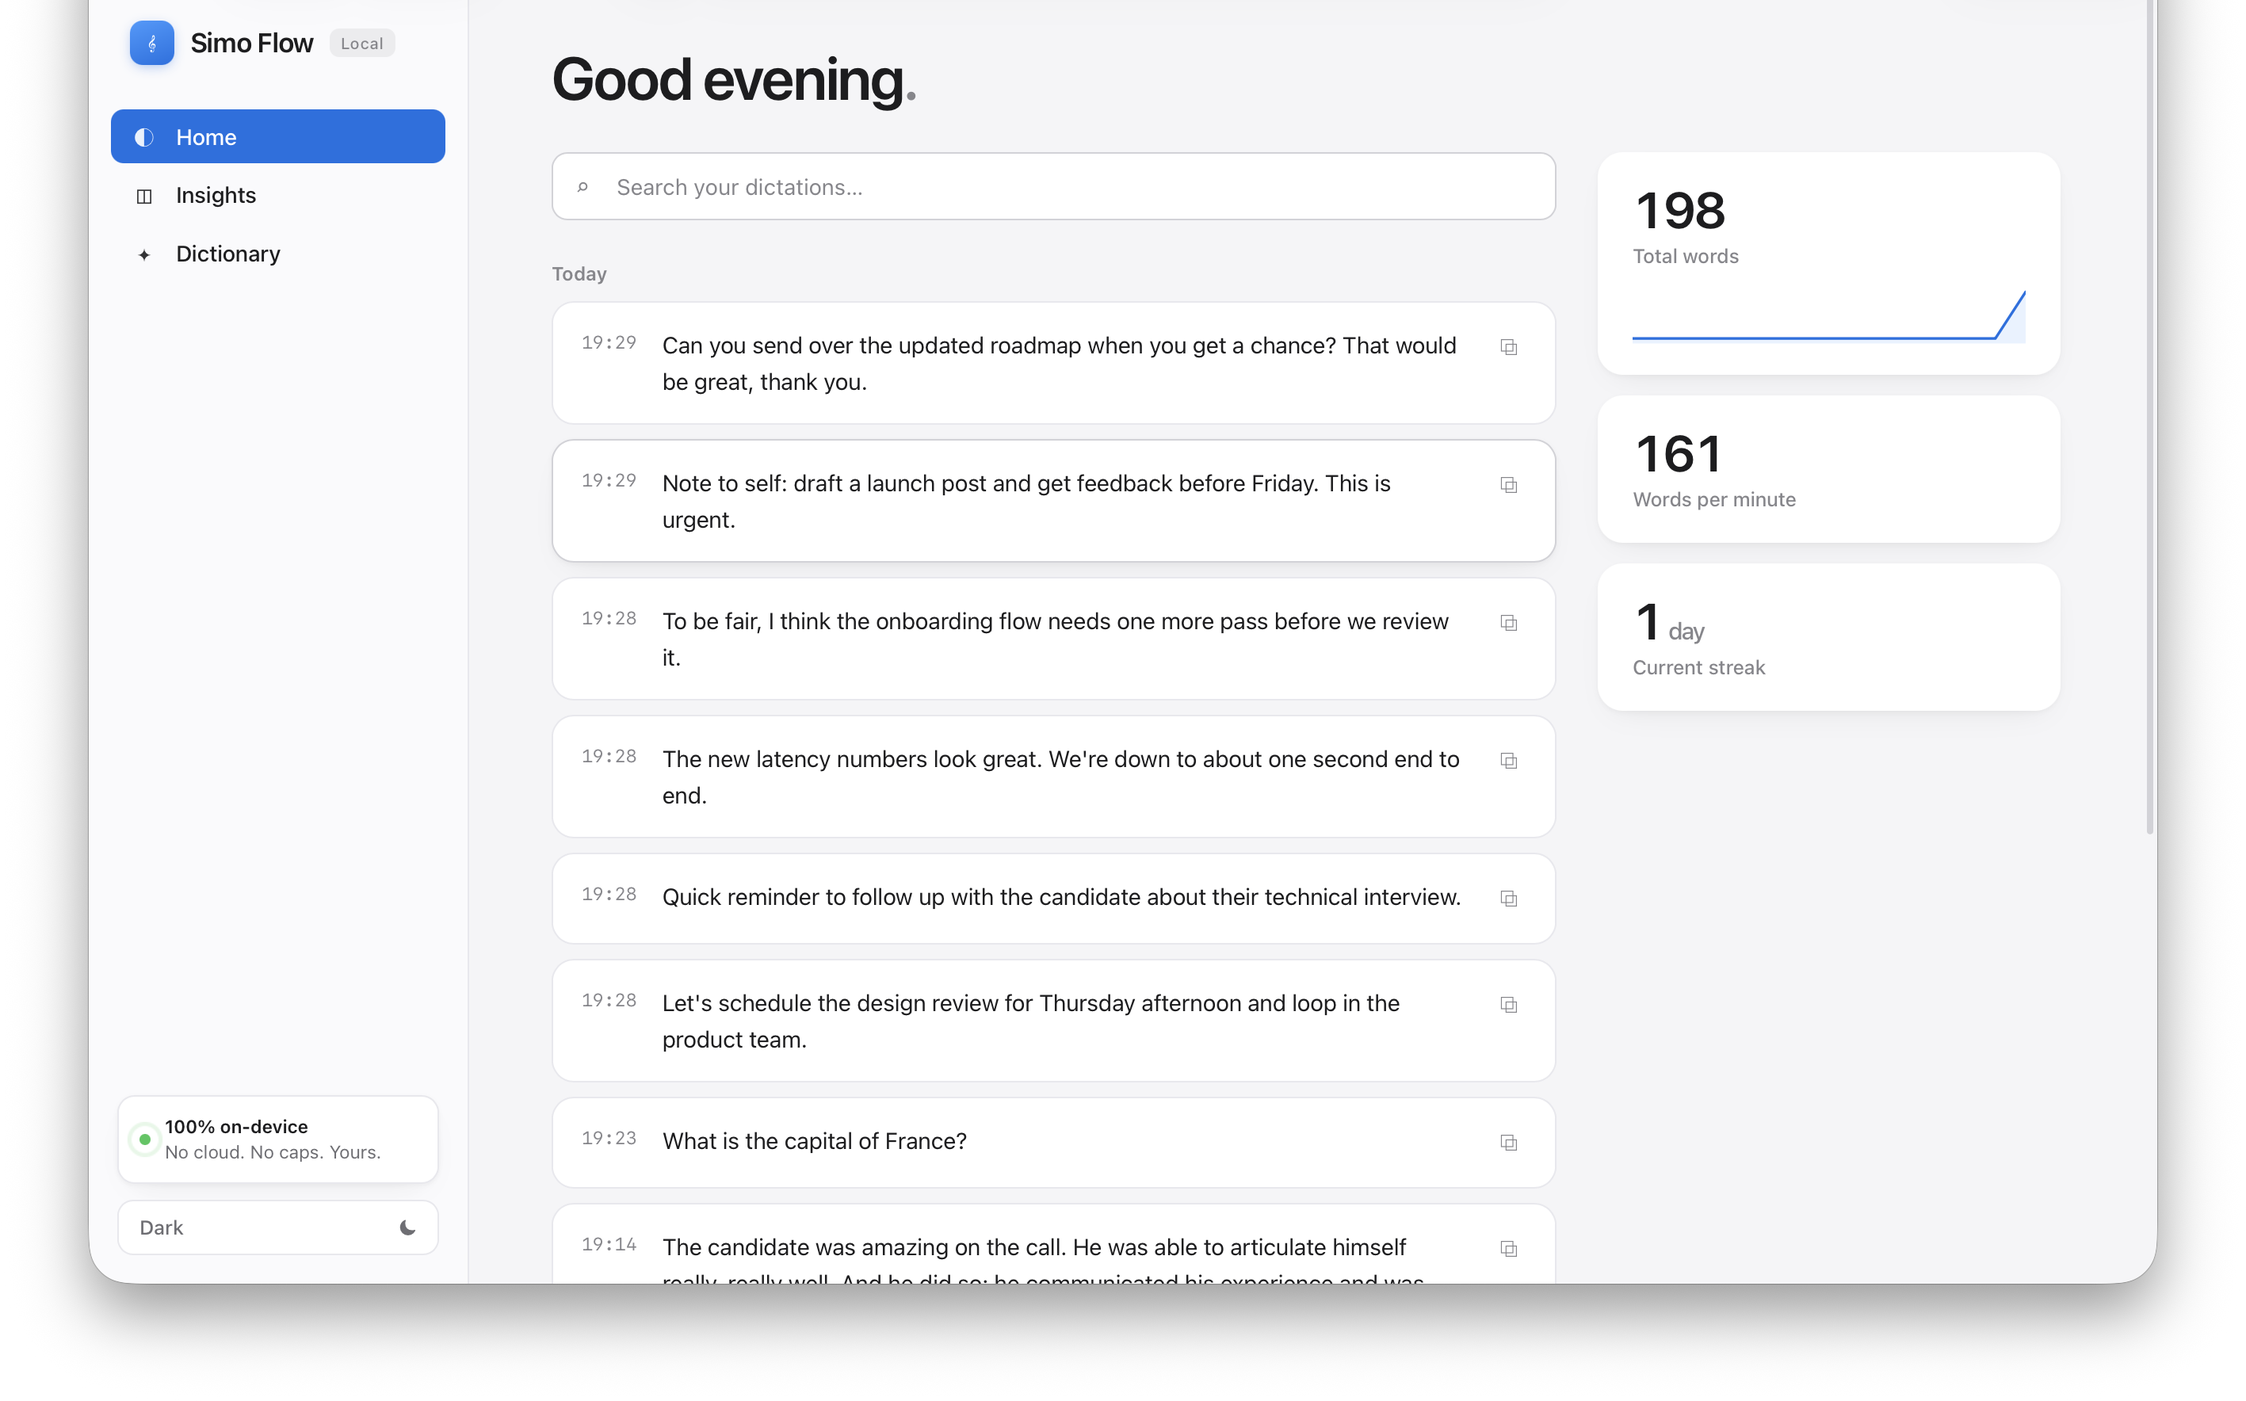
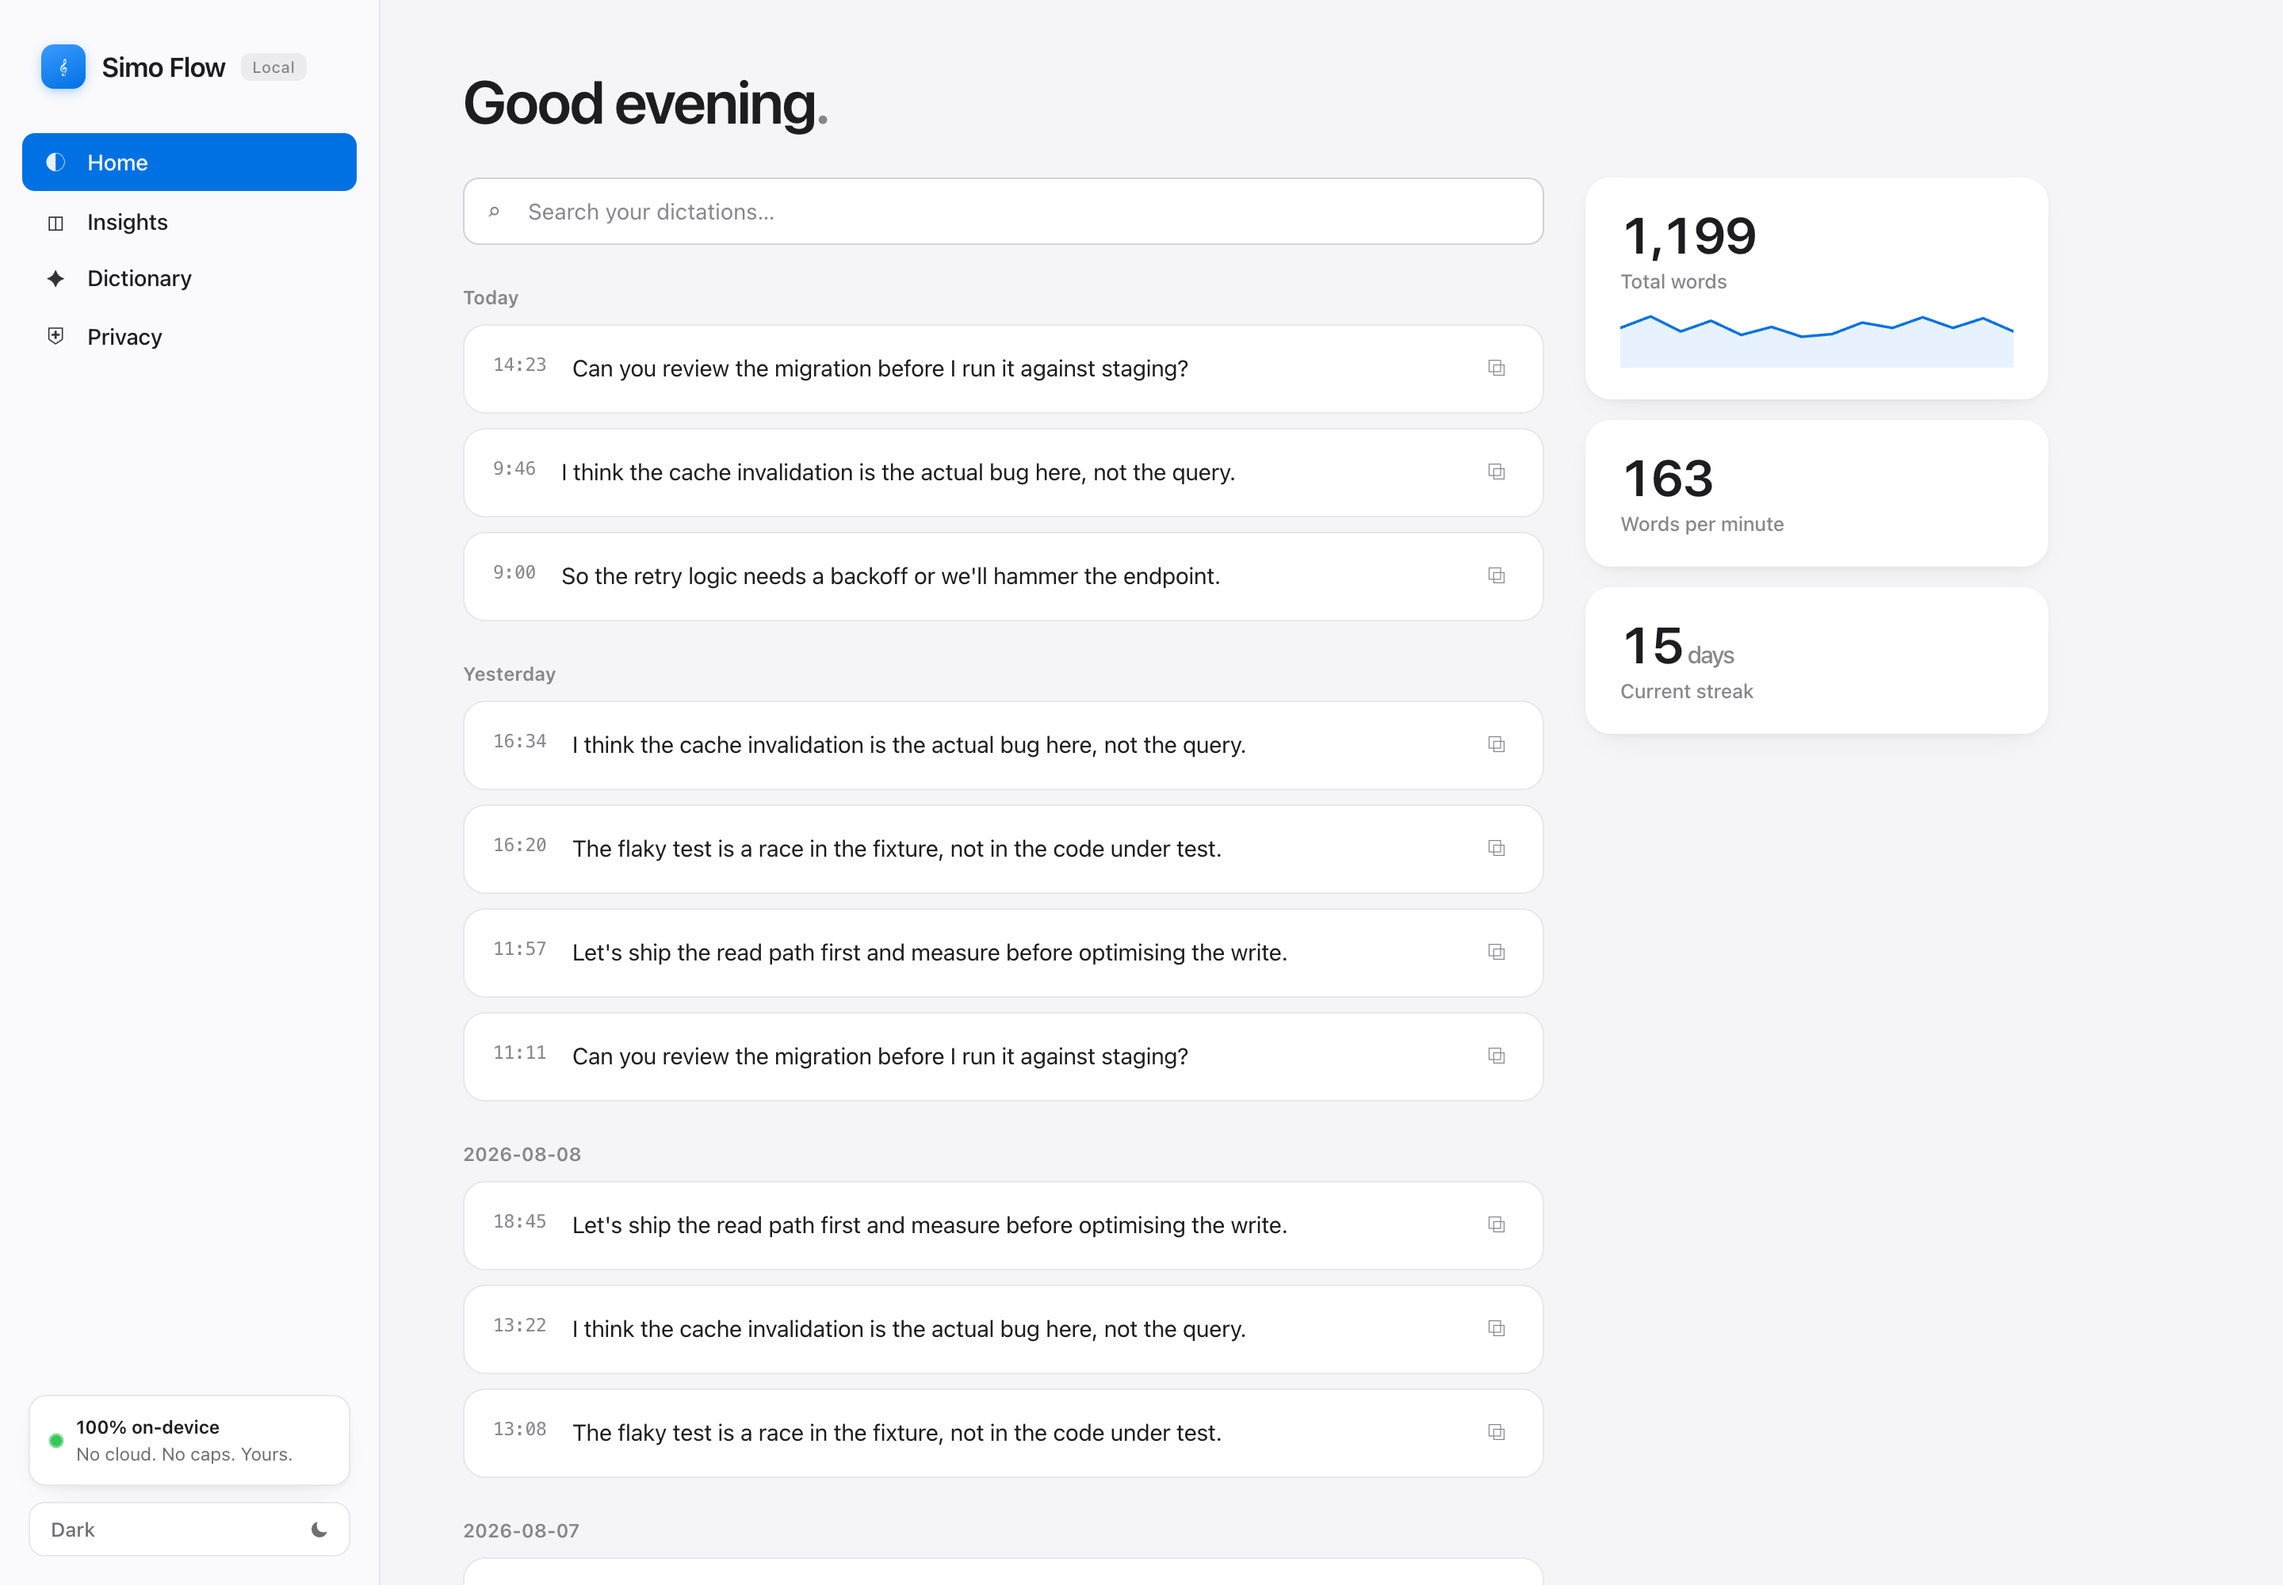
docs: regenerate dashboard screenshots from placeholder data
The screenshots showed a product that no longer exists — no Privacy page, old
pill — but regenerating them naively meant publishing real dictated speech to a
public repo. tools/screenshot_docs.py seeds a throwaway database with invented
engineering chatter, serves the dashboard against that, and screenshots it
headlessly. The real ~/.simo-flow.db is never opened.

Adds the Privacy page shot, since export and delete are the most important thing
in this release and were invisible in the README.

Seeded timestamps are varied across the day: every row sharing one timestamp reads
as fake the moment anyone looks at the feed.

diff --git a/tools/screenshot_docs.py b/tools/screenshot_docs.py
@@ -1,0 +1,181 @@
+#!/usr/bin/env python3
+"""Regenerate the README dashboard screenshots — from placeholder data, never yours.
+
+The screenshots in `docs/` had gone stale (no Privacy page, old pill), but
+regenerating them naively meant publishing real dictated speech to a public repo.
+So this seeds a throwaway database with invented content, serves the dashboard
+against *that*, screenshots it, and never opens `~/.simo-flow.db` at all.
+
+Dark mode is captured by pre-setting `data-theme` on a temp copy of the dashboard.
+The page's own theme code only overrides that when the user has saved a preference,
+so the attribute survives — no change to the shipped dashboard for a tool's benefit.
+
+Usage:
+    ./.venv/bin/python tools/screenshot_docs.py
+    ./.venv/bin/python tools/screenshot_docs.py --out /tmp/preview   # review first
+"""
+import argparse
+import socket
+import subprocess
+import sys
+import tempfile
+import threading
+import time
+from datetime import datetime, timedelta
+from pathlib import Path
+
+sys.path.insert(0, str(Path(__file__).resolve().parent.parent))
+
+ROOT = Path(__file__).resolve().parent.parent
+CHROME = "/Applications/Google Chrome.app/Contents/MacOS/Google Chrome"
+
+# Invented dictations. Deliberately generic engineering chatter: plausible enough
+# that the feed looks real, with nothing personal in it.
+SPEECH = [
+    ("um so the retry logic needs a backoff or we'll hammer the endpoint",
+     "So the retry logic needs a backoff or we'll hammer the endpoint."),
+    ("can you review the migration before I run it against staging",
+     "Can you review the migration before I run it against staging?"),
+    ("I think the cache invalidation is the actual bug here, not the query",
+     "I think the cache invalidation is the actual bug here, not the query."),
+    ("uh let's ship the read path first and measure before optimising the write",
+     "Let's ship the read path first and measure before optimising the write."),
+    ("the flaky test is a race in the fixture, not in the code under test",
+     "The flaky test is a race in the fixture, not in the code under test."),
+    ("remind me to add an index on that foreign key before we launch",
+     "Remind me to add an index on that foreign key before we launch."),
+    ("basically the p99 got worse after the change so I'm reverting it",
+     "Basically the p99 got worse after the change so I'm reverting it."),
+    ("draft a note to the team explaining why we're delaying the rollout",
+     "Draft a note to the team explaining why we're delaying the rollout."),
+    ("you know the error message doesn't say which field failed validation",
+     "The error message doesn't say which field failed validation."),
+    ("let's pair on the deploy tomorrow morning before standup",
+     "Let's pair on the deploy tomorrow morning before standup."),
+]
+TERMS = ["Simonian", "pyobjc", "Ollama", "whisper.cpp", "PortAudio", "launchd"]
+
+
+def free_port() -> int:
+    with socket.socket() as s:
+        s.bind(("127.0.0.1", 0))
+        return s.getsockname()[1]
+
+
+def seed(db_path: Path) -> None:
+    """Fill a fresh database with invented history spread over ten weeks."""
+    import engine.store as store
+
+    store.DB_PATH = db_path
+    now = datetime.now()
+    # Weight recent days more heavily so the heatmap and the "words per day" chart
+    # look like real use rather than a uniform block.
+    for week in range(10):
+        for day in range(7):
+            when = now - timedelta(days=week * 7 + day)
+            if (week + day) % 3 == 0 and week > 1:
+                continue  # some days off, so the heatmap has texture
+            for i in range((3 if week < 2 else 1) + (day % 2)):
+                raw, polished = SPEECH[(week * 7 + day + i) % len(SPEECH)]
+                # Vary the clock: every row sharing one timestamp reads as seeded
+                # data the moment anyone looks at the feed.
+                stamp = when.replace(
+                    hour=9 + ((week * 3 + day * 2 + i * 5) % 10),
+                    minute=(week * 17 + day * 11 + i * 23) % 60,
+                    second=(day * 7 + i * 13) % 60,
+                )
+                with store._conn() as c:
+                    c.execute(
+                        "INSERT INTO history (ts, app_name, raw_text, polished_text,"
+                        " duration_ms, word_count, audio_sec) VALUES (?,?,?,?,?,?,?)",
+                        (stamp.strftime("%Y-%m-%d %H:%M:%S"), "", raw, polished,
+                         430 + (i * 210), len(polished.split()),
+                         round(len(polished.split()) / 2.7, 1)),
+                    )
+    for t in TERMS:
+        store.dictionary_add(t)
+
+
+def serve(static_dir: Path, port: int) -> None:
+    import uvicorn
+
+    from engine import api
+
+    api.STATIC = static_dir
+    api._ALLOWED_HOSTS.add(f"127.0.0.1:{port}")
+    threading.Thread(
+        target=lambda: uvicorn.run(api.app, host="127.0.0.1", port=port, log_level="error"),
+        daemon=True,
+    ).start()
+    for _ in range(100):  # wait for the port to answer
+        try:
+            with socket.create_connection(("127.0.0.1", port), timeout=0.1):
+                return
+        except OSError:
+            time.sleep(0.1)
+    raise RuntimeError("dashboard did not start")
+
+
+def shoot(url: str, out: Path, size: str = "1440,1000") -> None:
+    subprocess.run(
+        [CHROME, "--headless=new", f"--screenshot={out}", f"--window-size={size}",
+         "--hide-scrollbars", "--force-device-scale-factor=2",
+         "--virtual-time-budget=4000", url],
+        capture_output=True, check=False,
+    )
+    if not out.exists():
+        raise RuntimeError(f"chrome produced no screenshot for {url}")
+
+
+def main() -> int:
+    ap = argparse.ArgumentParser()
+    ap.add_argument("--out", default=str(ROOT / "docs"))
+    args = ap.parse_args()
+    if not Path(CHROME).exists():
+        print("Google Chrome not found — needed for headless screenshots.")
+        return 2
+
+    outdir = Path(args.out)
+    outdir.mkdir(parents=True, exist_ok=True)
+
+    with tempfile.TemporaryDirectory() as tmp:
+        tmpdir = Path(tmp)
+        seed(tmpdir / "docs.db")
+
+        # Light and dark copies of the dashboard; the dark one has the theme
+        # attribute pre-set so headless Chrome doesn't have to click anything.
+        src = (ROOT / "engine" / "static" / "dashboard.html").read_text()
+        light_dir, dark_dir = tmpdir / "light", tmpdir / "dark"
+        for d in (light_dir, dark_dir):
+            d.mkdir()
+        (light_dir / "dashboard.html").write_text(src)
+        (dark_dir / "dashboard.html").write_text(
+            src.replace('<html lang="en">', '<html lang="en" data-theme="dark">', 1)
+        )
+
+        shots = [
+            (light_dir, "", "dashboard-home.png"),
+            (light_dir, "#insights", "dashboard-insights.png"),
+            (light_dir, "#privacy", "dashboard-privacy.png"),
+            (dark_dir, "", "dashboard-home-dark.png"),
+        ]
+        port = free_port()
+        current: Path | None = None
+        for static_dir, frag, name in shots:
+            if static_dir != current:
+                # A new static dir needs its own server; ports are cheap.
+                port = free_port()
+                serve(static_dir, port)
+                current = static_dir
+            target = outdir / name
+            shoot(f"http://127.0.0.1:{port}/{frag}", target)
+            print(f"  {target.relative_to(ROOT) if outdir.is_relative_to(ROOT) else target}"
+                  f"  ({target.stat().st_size // 1024}kb)")
+
+    print("\nSeeded from invented content in tools/screenshot_docs.py —")
+    print("your own dictation history was never opened.")
+    return 0
+
+
+if __name__ == "__main__":
+    raise SystemExit(main())

diff --git a/README.md b/README.md
@@ -57,6 +57,10 @@ A local dashboard at `localhost:7331` — searchable history, insights (words pe
 
 ![Simo Flow dashboard — dark mode](docs/dashboard-home-dark.png)
 
+![Simo Flow dashboard — privacy controls](docs/dashboard-privacy.png)
+
+*Screenshots are generated from invented placeholder data by `tools/screenshot_docs.py` — a dictation app's own screenshots should not publish the author's real speech.*
+
 ## Features
 
 - 🎙 **Push-to-talk**: hold `fn`, speak, release
